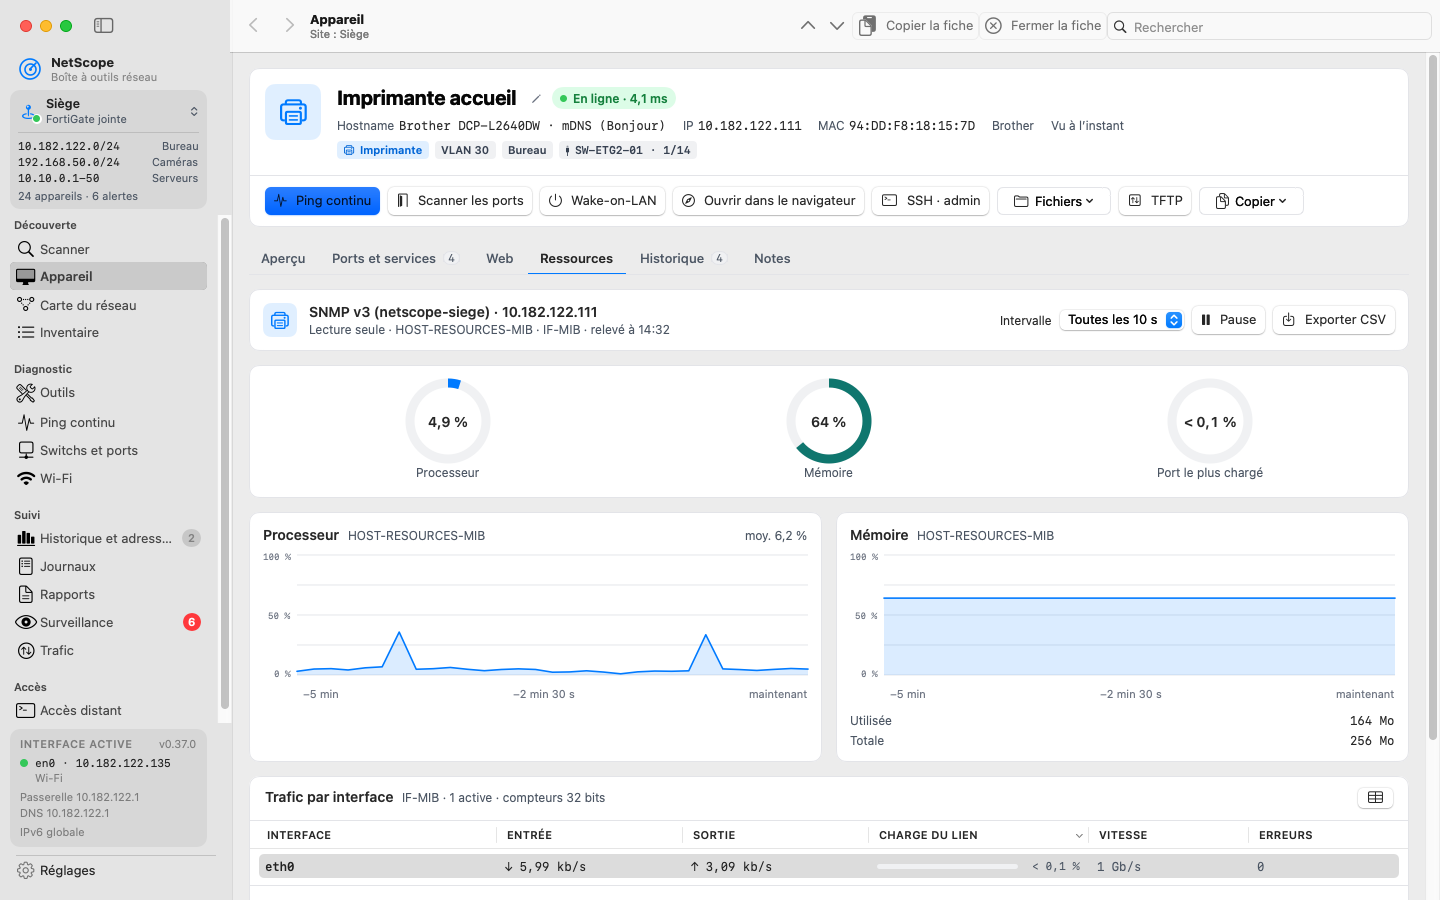
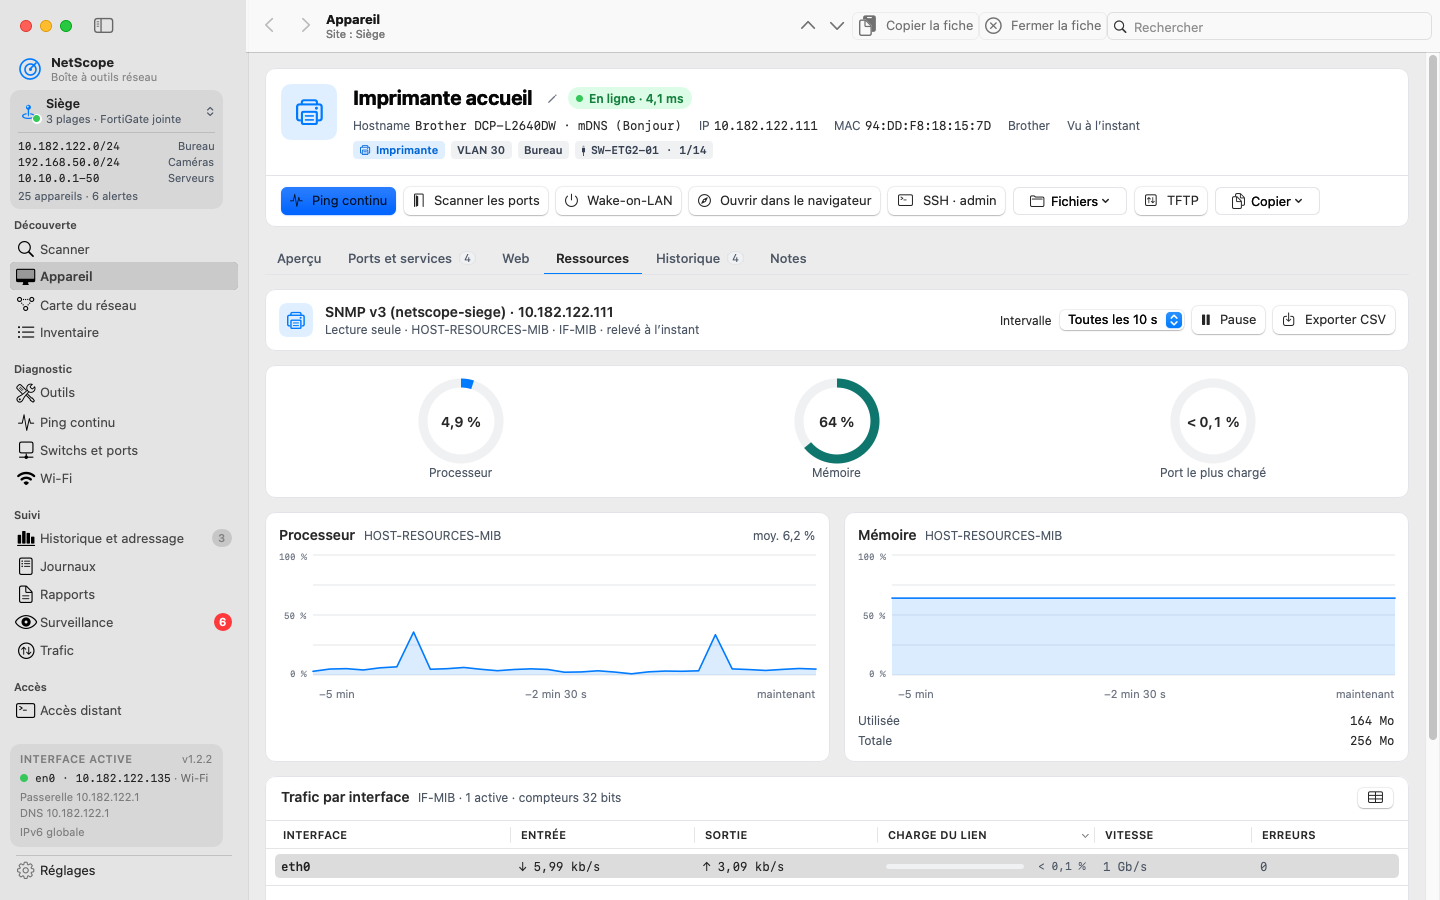
README à jour pour la 1.2 et captures de la galerie refaites
Fonctions regroupées par module (sans l’historique des versions, renvoyé au CHANGELOG),
état du projet stable, sécurité et lecture seule par défaut, feuille de route.
Captures 04, 05, 06, 07, 09 et 10 refaites avec la barre latérale actuelle.

diff --git a/README.md b/README.md
@@ -25,46 +25,26 @@ surveille, documente et ouvre une session à distance, site par site, dans une s
 - **Fortinet en profondeur** : FortiSwitch, bornes FortiAP, liens WAN et VPN, FortiView,
   firmware, licences et journaux, lus par l’API ; seules les actions sur les ports (cycle PoE,
   désactivées par défaut) modifient quelque chose, après confirmation.
-- **Une seule fenêtre pour tout le travail** : scan, ping, Wi-Fi, outils de diagnostic,
-  rapports PDF, terminal SSH et Telnet, console série et VNC intégrés, et depuis la 0.23.0 un
-  journal de l’app avec « Exporter un diagnostic » et une fiche matériel remplie toute seule ;
-  depuis la 0.25.0, SNMP v3 partout, un Navigateur SNMP, le trafic de chaque port sur 30 jours
-  et le cycle PoE d’un port à distance ; depuis la 0.26.0, un Bilan de raccordement en un clic
-  (avant/après), le vrai MTU du chemin, le Ping continu en TCP et HTTP(S), les éléments des
-  balises Wi-Fi, les tunnels SSH et le saut par bastion ; depuis la 0.26.1, l’assistance à
-  distance par RustDesk avec ton propre serveur (carnet des postes, test du serveur, ports
-  RustDesk reconnus dans les scans) ; depuis la 0.26.2, un tableau de bord du serveur RustDesk
-  lu par SSH en lecture seule (sessions relayées, demandes de connexion, état de hbbs et hbbr) ;
-  depuis la 0.27.0, Switchs et ports et FortiAP en onglets, le meilleur canal Wi-Fi et le
-  relevé par pièce, les plages exclues, la base des fabricants tenue à jour toute seule, un
-  Speedtest planifié par site, les fenêtres de maintenance de la Surveillance, le rapport de
-  disponibilité (aussi en DOCX et envoyé par courriel), les liens LLDP sur la Carte, Syslog en
-  TCP, les décodeurs et constats de la Capture de paquets, un serveur iperf3 intégré et
-  XMODEM/YMODEM en console série ; depuis la 0.27.1, plus d’alerte « Appareil déplacé » quand
-  un appareil Wi-Fi passe d’une borne à l’autre, et une carte d’occupation qui distingue Wi-Fi,
-  filaire et adresses DHCP ; la 0.27.2 garde le panneau de détails de l’Accès distant
-  dans sa colonne et corrige une fermeture de l’app à l’enregistrement d’une connexion ; la
-  0.27.3 donne à l’assistance RustDesk son propre onglet, avec l’historique complet des
-  sessions dans un tableau ; la 0.28.0 exporte la carte du réseau (PNG, PDF, SVG, draw.io) et
-  l’ajoute aux rapports, reçoit les flux NetFlow, sFlow et IPFIX de toute marque dans Trafic,
-  liste les partages SMB d’un hôte et envoie les alertes sur téléphone par ntfy ou Pushover ;
-  la 0.29.0 synchronise toutes les données entre tes Mac (sites, inventaires, Accès distant,
-  Surveillance, alertes, réglages), secrets chiffrés et remis au Trousseau de chaque Mac ;
-  la 0.30.0 reconnaît le système et les versions des services sans Nmap, sonde les ports UDP
-  avec de vraies requêtes, vérifie les certificats TLS (seul ou tout un site) et lit en lecture
-  seule les contrôleurs UniFi, Omada et Meraki.
+- **Une seule fenêtre pour tout le travail** : scan, ping, Wi-Fi, switchs, outils de diagnostic,
+  surveillance, rapports PDF, terminal SSH, Telnet et série, VNC et assistance RustDesk, sans
+  passer d’une application à l’autre.
+- **Sécurité du réseau** : serveur DHCP pirate, conflits d’adresses IP, bornes Wi-Fi pirates,
+  certificats TLS, firmware et licences à mettre à jour, sauvegarde des configurations.
+- **Même quand l’app est fermée** : un agent en arrière-plan garde les sondes, Syslog, les scans
+  planifiés et la mise à jour planifiée du serveur RustDesk.
 
-> **État du projet** : NetScope est en développement actif (0.x). Les fonctions réseau
-> (FortiGate, FortiAP, SNMP, Syslog, sessions SSH, Telnet, série et VNC) sont testées sur des
-> données de démonstration et attendent encore des essais sur de vrais équipements ; voir les
-> limites connues dans le [CHANGELOG](CHANGELOG.md).
+> **État du projet** : NetScope est stable depuis la 1.0.0 et utilisé sur de vrais réseaux
+> (FortiGate, FortiSwitch, FortiAP, SNMP). Les fonctions les plus récentes (onduleurs, bornes
+> pirates, test de câble, relevé Wi-Fi sur plan…) attendent encore des essais sur le terrain ;
+> voir les limites connues de chaque version dans le [CHANGELOG](CHANGELOG.md).
 
 ## Fonctions
 
 ### Découverte
 
 - Plusieurs plages IPv4 à la fois (`10.0.0.0/24`, `192.168.1.1-254`, liste…), ping ICMP sans droits
-  administrateur, table ARP et 22 ports essentiels sondés à chaque scan.
+  administrateur, table ARP et 22 ports essentiels sondés à chaque scan ; voisins IPv6 (NDP),
+  plages exclues, **scans planifiés** par site et **scan d’un VLAN tagué** depuis le Mac.
 - Nom de chaque appareil avec sa source (DNS inverse, mDNS/Bonjour, NetBIOS, sysName SNMP),
   fabricant d’après le registre IEEE complet (environ 53 700 préfixes) et type d’appareil.
 - Colonnes **Switch / Port** et **VLAN** remplies seules : découverte SNMP v2c ou v3 des switchs
@@ -75,7 +55,10 @@ surveille, documente et ouvre une session à distance, site par site, dans une s
   avec **export de la carte entière** en PNG, PDF, SVG ou draw.io modifiable,
   et **Inventaire** permanent : chronologie des changements d’IP et de port, garantie, pièces
   jointes, étiquettes, import et export CSV ; modèle, numéro de série et
-  firmware lus tout seuls (SNMP ENTITY-MIB, sysDescr, FortiGate).
+  firmware lus tout seuls (SNMP ENTITY-MIB, sysDescr, FortiGate) ; vues **Imprimantes** (toner
+  et consommables) et **Onduleurs** (batterie, autonomie).
+- **Historique et adressage** : occupation de chaque plage, changements d’IP, et « Où était cet
+  appareil ? » : ports, IP, VLAN et bornes où une adresse MAC a été vue, sur des mois.
 
 ### Diagnostic
 
@@ -86,8 +69,13 @@ surveille, documente et ouvre une session à distance, site par site, dans une s
   **Ressources** (processeur, mémoire, disques et trafic par SNMP).
   Sans appareil choisi, une fiche s’ouvre par IP, nom ou MAC, et un appareil absent du
   Scanner se saisit à la main.
-- Capture **LLDP/CDP** : le switch, le port, le VLAN et le PoE où ce Mac est branché.
-- **Test DHCP** sans prendre de bail, avec alerte si un serveur n’est pas autorisé.
+- **Bilan de raccordement** en un clic sur une prise : lien, switch et port, VLAN, PoE, DHCP,
+  passerelle, DNS et Internet, avec comparaison avant/après ; **Capture LLDP/CDP** du switch,
+  du port, du VLAN et du PoE où ce Mac est branché.
+- **Test DHCP** sans prendre de bail : chaque serveur qui répond est jugé attendu ou **pirate** ;
+  **Conflits d’adresses IP** (même IP sur deux MAC, réponses ARP contradictoires).
+- Test MTU réel, traceroute UDP et TCP, empreinte du système et des services, scan de ports UDP,
+  vérification des **certificats TLS**, **qualité VoIP** (note MOS des appels captés ou simulés).
 - **Journal de l’app** (Réglages › Journal et diagnostic) : erreurs et avertissements de chaque
   module, secrets masqués, et « Exporter un diagnostic… » en .zip à joindre à un signalement.
 
@@ -95,7 +83,10 @@ surveille, documente et ouvre une session à distance, site par site, dans une s
 
 - Connexion de ce Mac (RSSI, bruit, SNR, canal, débit), réseaux voisins et graphe des canaux
   2,4, 5 et 6 GHz, avec recommandations.
-- **Bornes FortiAP** de chaque site : état, radios, clients, SSID, AP voisins ou non autorisés.
+- **Bornes FortiAP** de chaque site : état, radios, clients, SSID, AP voisins ou non autorisés ;
+  onglet **Pirates** (sosies de tes SSID, bornes inconnues branchées sur un port de switch).
+- **Relevé sur plan** : plan d’étage importé, mesures en marchant, carte de chaleur, zones
+  mortes, chevauchements de canaux et emplacement suggéré d’une borne.
 - **« Diagnostiquer »** un client, une borne ou un SSID : signal, canal, interférences, charge,
   authentification, DHCP, puis les actions à faire dans l’ordre.
 
@@ -114,12 +105,19 @@ surveille, documente et ouvre une session à distance, site par site, dans une s
 - **Firmware et licences** : versions FortiOS, FortiSwitch et FortiAP, licences FortiGuard et
   FortiCare avec alerte avant l’expiration.
 - **Étendues DHCP** de la FortiGate, avec leur taux d’occupation.
+- **Configurations** : sauvegarde de la FortiGate (API) et des switchs (SSH, commandes de lecture
+  seulement), historique et comparaison avant/après, secrets masqués.
+- **Test de câble** demandé au switch (TDR) : état de chaque paire et distance du défaut ;
+  désactivé par défaut, avec confirmation.
+- Contrôleurs **UniFi, Omada et Meraki** en lecture seule.
 
 ### Suivi
 
 - **Surveillance** : sondes ping, TCP, HTTP(S) (certificat, mot-clé), DNS, SNMP, port de switch,
   nouveaux appareils, licences et plus, avec seuils, plages horaires et dépendances ;
-  disponibilité sur 24 h et icône dans la barre des menus.
+  disponibilité sur 24 h et icône dans la barre des menus ; aussi DHCP pirate, conflit d’IP,
+  borne pirate, consommable d’imprimante bas, onduleur et serveur RustDesk. Un **agent** les
+  garde actives quand l’app est fermée (désactivé par défaut).
 - Alertes par notification macOS, courriel, webhook (Teams, Slack, JSON) ou sur téléphone par
   ntfy et Pushover, avec un filtre par canal.
 - **Journaux** : récepteur Syslog et traps SNMP sur ce Mac, journaux d’événements de la
@@ -140,30 +138,19 @@ surveille, documente et ouvre une session à distance, site par site, dans une s
   observation seule, presse-papiers texte. RDP s’ouvre dans Windows App.
 - Navigateur de fichiers en deux volets (FTP, FTPS, SFTP) et serveur FTP temporaire.
 - **Assistance RustDesk** dans son propre onglet : ID de l’usager, ajout au carnet, lien
-  d’assistance à copier et historique complet des sessions (recherche, reconnexion) ; onglet
-  **Serveur RustDesk** pour suivre le serveur auto-hébergé : santé, mises à jour à vérifier,
-  clé et sauvegarde, historique et rapport mensuel, tentatives suspectes, journaux, nom et note
-  par ID, ID associé à la MAC du poste (0.33.0) ; déconnecter une session, mettre à jour
-  RustDesk et le système, mise à jour planifiée la nuit par l’agent (0.33.1).
-- Terminal intégré : extraits personnalisés et envoi d’une commande à plusieurs sessions avec
-  confirmation (0.34.0).
-- Test de câble demandé au switch (TDR, état de chaque paire et distance du défaut) et scan
-  d’un VLAN tagué depuis le Mac (0.35.0).
-- Relevé Wi-Fi sur plan : carte de chaleur, zones mortes, chevauchements de canaux, bornes
-  placées, export PDF et section des rapports (0.36.0).
-- Consommables des imprimantes par SNMP, qualité VoIP (MOS) et retour à une version précédente
-  de NetScope (0.37.0).
-- **1.0.0** : première version stable ; vue « Imprimantes » de l’Inventaire, extraits dans la
-  console série, ordre alphabétique partout.
-- **1.1.0** : serveur DHCP pirate, conflits d’adresses IP et bornes Wi-Fi pirates, avec sondes et
-  rapport.
-- **1.2.0** : onduleurs par SNMP (fiche, Inventaire, sonde, rapport) et historique d’une adresse
-  MAC sur plusieurs mois.
+  d’assistance à copier et historique complet des sessions (recherche, reconnexion).
+- **Serveur RustDesk** auto-hébergé (lu par SSH) : sessions relayées, santé, mises à jour de
+  RustDesk et du système, clé publique et sauvegarde de la clé et de la base, historique et
+  rapport mensuel, tentatives suspectes, journaux, nom et note par ID, ID associé à la MAC du
+  poste ; « Déconnecter » une session, mise à jour (avec retour arrière) et mise à jour
+  planifiée la nuit, toujours avec confirmation.
+- Extraits personnalisés et **envoi d’une commande à plusieurs sessions**, avec confirmation.
 
 ### Rapports
 
 - Rapport client en **PDF** (format lettre, pagination, signature), quatre modèles et des
-  sections tirées du scan, de l’inventaire, des switchs, du Wi-Fi et de la carte du réseau.
+  sections tirées du scan, de l’inventaire, des switchs, du Wi-Fi, de la carte du réseau, des
+  pirates et conflits, des imprimantes, des onduleurs, de la VoIP et du relevé Wi-Fi sur plan.
 - Exports CSV, JSON et HTML ; brouillon Mail avec le PDF joint.
 - Section « Depuis le dernier rapport », rapports passés par site et rapports planifiés
   (chaque jour, semaine ou mois, quand NetScope est ouvert).
@@ -248,24 +235,24 @@ vérifiée avant l’installation).
 - **Secrets au Trousseau** : jetons FortiGate et mots de passe des connexions sont rangés
   dans le Trousseau de macOS. Les sauvegardes et exports qui incluent un
   secret sont chiffrés (AES-GCM 256 bits).
-- **Lecture seule chez Fortinet** : NetScope lit la FortiGate par son API et ne modifie rien.
-  L’empreinte de son certificat est acceptée une fois, de façon explicite.
+- **Lecture seule par défaut** : NetScope lit la FortiGate par son API et ne modifie rien.
+  Les rares actions (cycle PoE, test de câble, actions sur le serveur RustDesk) sont
+  désactivées par défaut ou demandent une confirmation. L’empreinte du certificat de la
+  FortiGate est acceptée une fois, de façon explicite.
 - **Rien n’est envoyé sans toi** : pas de compte, pas de serveur NetScope, pas de télémétrie ;
   la synchronisation (iCloud Drive, OneDrive ou NAS) et les alertes par courriel, webhook, ntfy
   ou Pushover ne fonctionnent que si tu les actives. Le scan reste sur les plages choisies, la découverte
   SNMP ne vise que des adresses privées, les rapports partent en brouillon Mail et la base des
-  fabricants n’est mise à jour que sur demande. La vérification des mises à jour (GitHub) se
+  fabricants se met à jour une fois par mois (désactivable). La vérification des mises à jour (GitHub) se
   désactive dans Réglages.
 - Chaque nouvelle empreinte SSH est montrée avant la connexion, pour que tu l’approuves.
 
 ## Feuille de route
 
 La feuille de route complète est dans [docs/feuille-de-route.html](docs/feuille-de-route.html),
-et le détail des notes dans [docs/A-FAIRE.md](docs/A-FAIRE.md). Les prochaines versions prévues :
-
-- **0.24.0, sauvegarde des configurations** : FortiGate par l’API, puis switchs en SSH.
-- **Automatique en arrière-plan** (version suivante) : scan planifié par site et surveillance sans
-  fenêtre.
+et le détail des notes dans [docs/A-FAIRE.md](docs/A-FAIRE.md). Tout ce qui était prévu est
+livré jusqu’à la 1.2 ; il reste l’interface en anglais, plus tard. L’historique de chaque
+version est dans le [CHANGELOG](CHANGELOG.md).
 
 ## Construire depuis les sources
 
